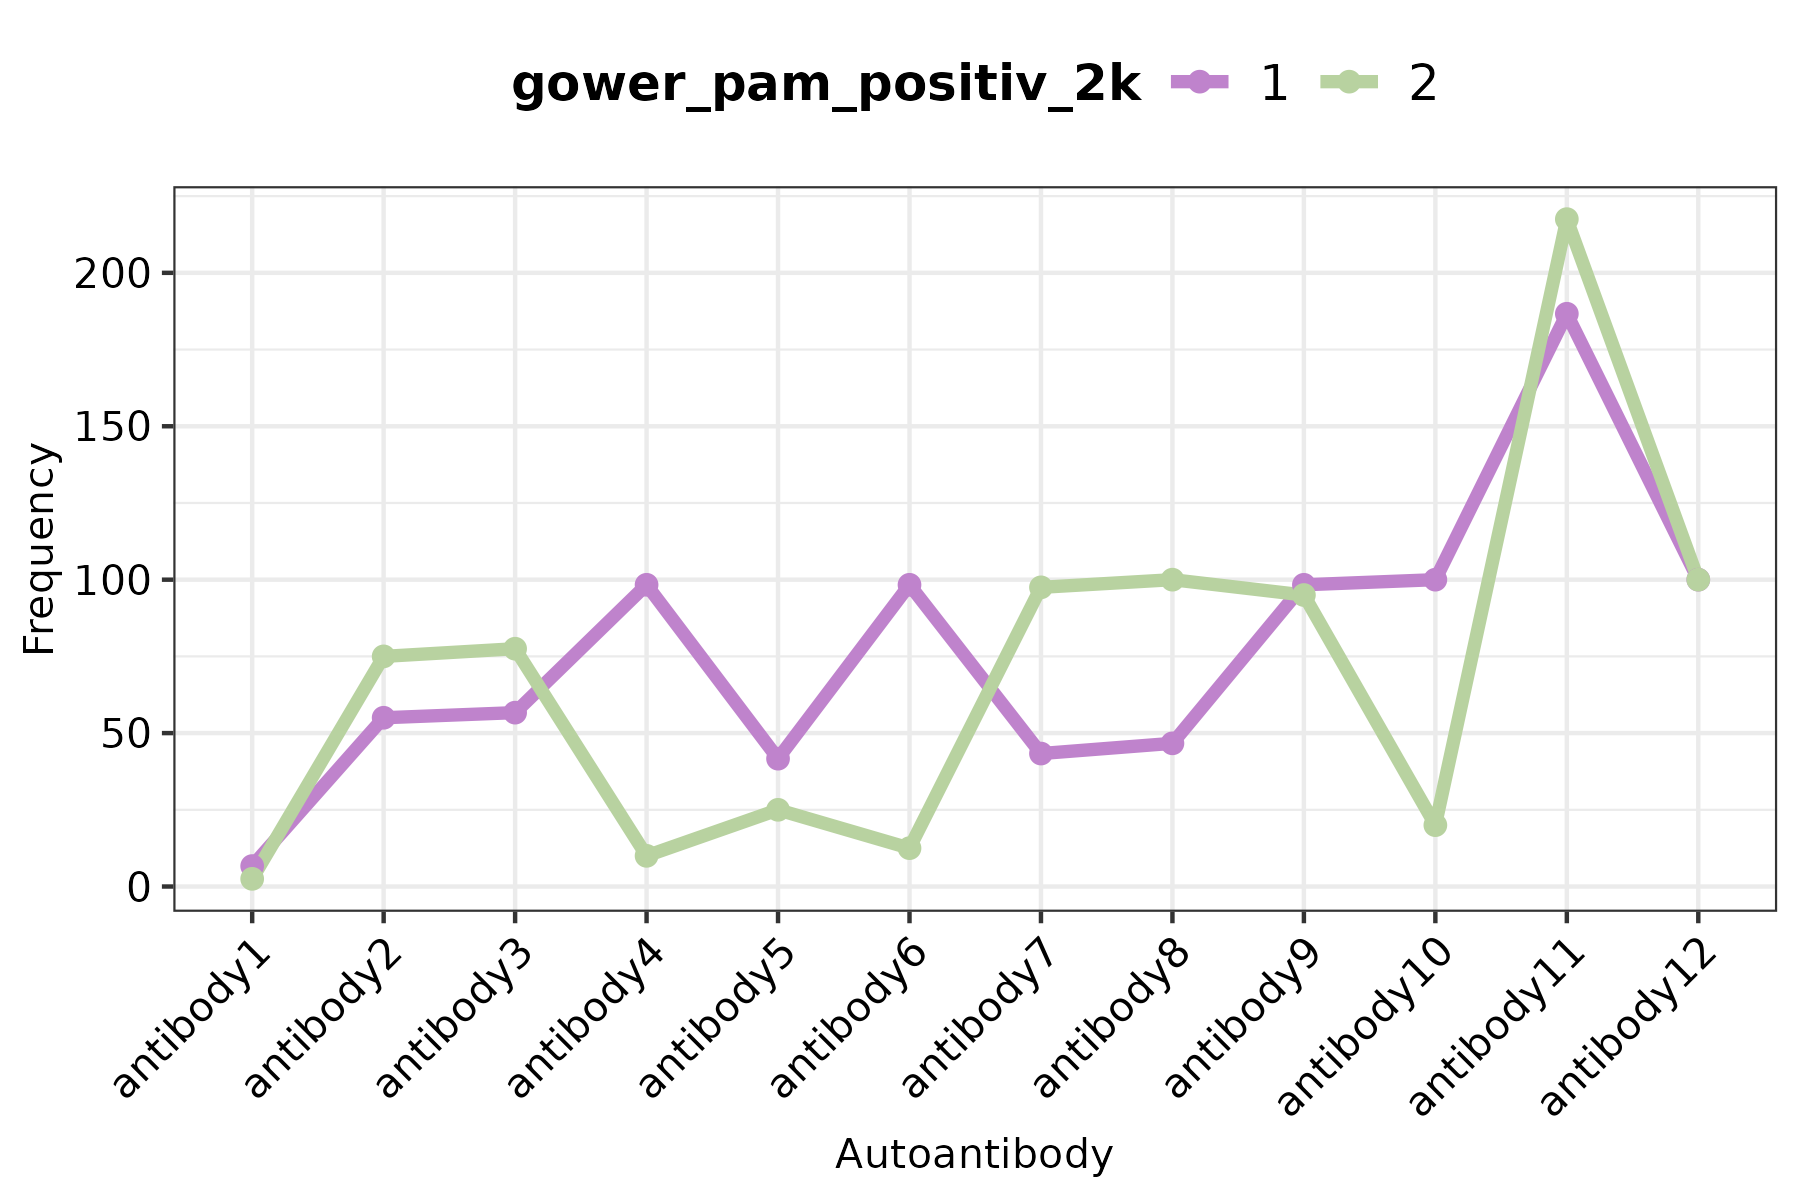
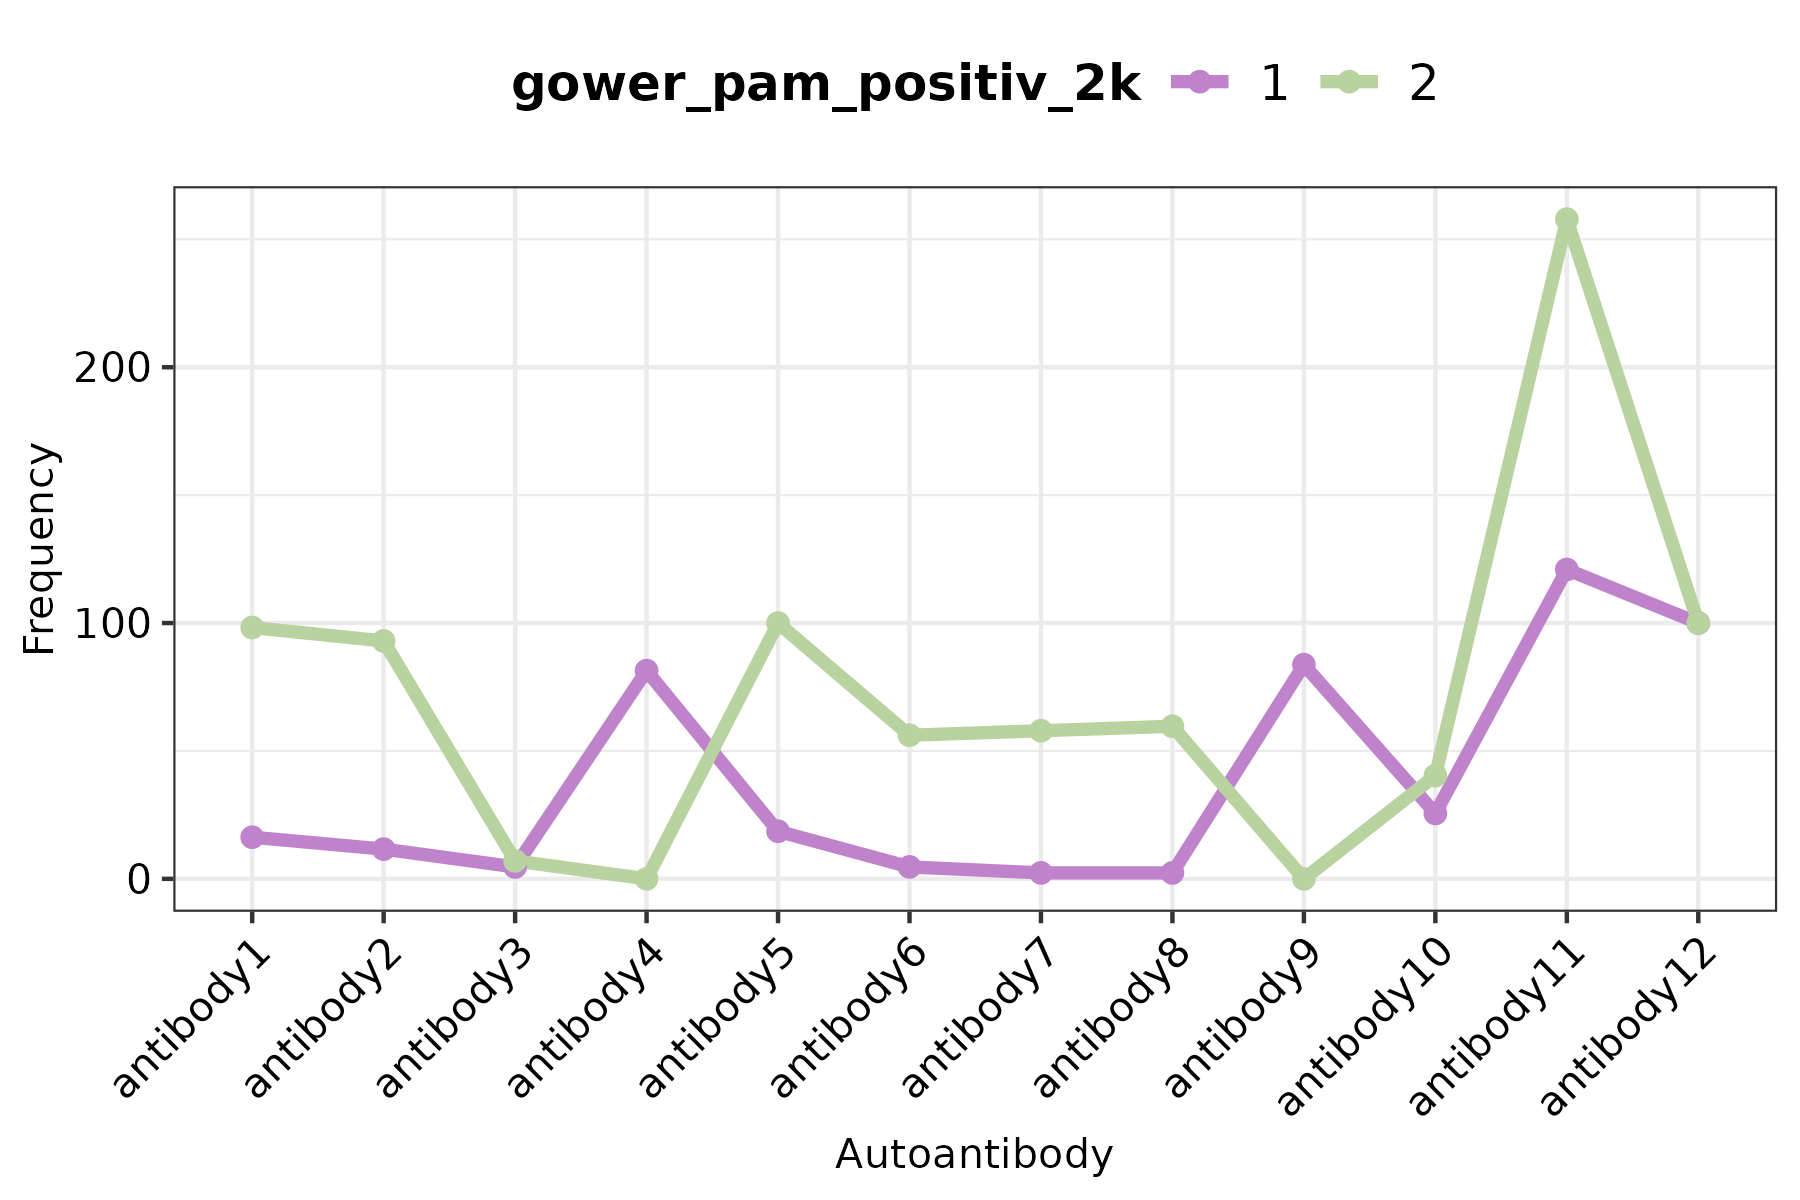
Deploying to gh-pages from @ Anacristina0914/autoclust@128dfe886e02a0fa58af0e39ac6e6d2481a5b75e 🚀

diff --git a/articles/autoclust.html b/articles/autoclust.html
@@ -84,19 +84,19 @@ data is located in your computer.</p>
 <span><span class="co"># Explore dataset</span></span>
 <span><span class="fu"><a href="https://rdrr.io/r/utils/head.html" class="external-link">head</a></span><span class="op">(</span><span class="va">clinical_data_df</span><span class="op">)</span></span></code></pre></div>
 <pre><code><span><span class="co">##         antibody1 antibody2 antibody3 antibody4 antibody5 antibody6 antibody7</span></span>
-<span><span class="co">## sample1         0         1         1         1         0         1         0</span></span>
-<span><span class="co">## sample2         0         1         1         1         0         1         0</span></span>
-<span><span class="co">## sample3         0         1         1         1         0         1         0</span></span>
-<span><span class="co">## sample4         0         1         1         1         0         1         0</span></span>
-<span><span class="co">## sample5         0         1         1         1         0         1         0</span></span>
-<span><span class="co">## sample6         0         1         1         1         0         1         0</span></span>
+<span><span class="co">## sample1         0         0         0         1         0         0         0</span></span>
+<span><span class="co">## sample2         0         0         0         1         0         0         0</span></span>
+<span><span class="co">## sample3         0         0         0         1         0         0         0</span></span>
+<span><span class="co">## sample4         0         0         0         1         0         0         0</span></span>
+<span><span class="co">## sample5         0         0         0         1         0         0         0</span></span>
+<span><span class="co">## sample6         0         0         0         1         0         0         0</span></span>
 <span><span class="co">##         antibody8 antibody9 antibody10 antibody11 antibody12</span></span>
-<span><span class="co">## sample1         0         1          1          1          1</span></span>
-<span><span class="co">## sample2         0         1          1          1          1</span></span>
-<span><span class="co">## sample3         0         1          1          1          1</span></span>
-<span><span class="co">## sample4         0         1          1          1          1</span></span>
-<span><span class="co">## sample5         0         1          1          1          1</span></span>
-<span><span class="co">## sample6         0         1          1          1          1</span></span></code></pre>
+<span><span class="co">## sample1         0         1          0          1          1</span></span>
+<span><span class="co">## sample2         0         1          0          1          1</span></span>
+<span><span class="co">## sample3         0         1          0          1          1</span></span>
+<span><span class="co">## sample4         0         1          0          1          1</span></span>
+<span><span class="co">## sample5         0         1          0          1          1</span></span>
+<span><span class="co">## sample6         0         1          0          1          1</span></span></code></pre>
 <div class="sourceCode" id="cb4"><pre class="downlit sourceCode r">
 <code class="sourceCode R"><span><span class="co"># Establish a directory where to save your results</span></span>
 <span><span class="va">output_data_dir</span> <span class="op">&lt;-</span> <span class="st">"."</span> <span class="co"># This will save the results in the current working directory. You can change it for whatever you want.</span></span></code></pre></div>

diff --git a/index.html b/index.html
@@ -48,7 +48,7 @@
   <main id="main" class="col-md-9"><div class="section level1">
 <div class="page-header"><h1 id="autoclust-">autoclust <img src="reference/figures/logo.png" align="right" width="120"><a class="anchor" aria-label="anchor" href="#autoclust-"></a>
 </h1></div>
-<p><a href="https://github.com/Anacristina0914/autoclust/actions/workflows/R-CMD-check.yml" class="external-link"><img src="https://github.com/Anacristina0914/autoclust/actions/workflows/R-CMD-check.yml/badge.svg" alt="R-CMD-check"></a> <a href="LICENSE"><img src="https://img.shields.io/badge/license-MIT-blue.svg" alt="License: MIT"></a> <a href="https://github.com/Anacristina0914/autoclust/releases" class="external-link"><img src="https://img.shields.io/github/v/release/Anacristina0914/autoclust" alt="GitHub release"></a></p>
+<p><a href="LICENSE"><img src="https://img.shields.io/badge/license-MIT-blue.svg" alt="License: MIT"></a> <a href="https://github.com/Anacristina0914/autoclust/releases" class="external-link"><img src="https://img.shields.io/github/v/release/Anacristina0914/autoclust" alt="GitHub release"></a><br><a href="https://doi.org/10.5281/zenodo.17569306" class="external-link"><img src="https://zenodo.org/badge/887137273.svg" alt="DOI"></a></p>
 <blockquote>
 <p>Automated clustering and association testing for patient stratification using antibody, proteomic, and clinical data.</p>
 </blockquote>

diff --git a/articles/autoclust.md b/articles/autoclust.md
@@ -32,19 +32,19 @@ head(clinical_data_df)
 ```
 
     ##         antibody1 antibody2 antibody3 antibody4 antibody5 antibody6 antibody7
-    ## sample1         0         1         1         1         0         1         0
-    ## sample2         0         1         1         1         0         1         0
-    ## sample3         0         1         1         1         0         1         0
-    ## sample4         0         1         1         1         0         1         0
-    ## sample5         0         1         1         1         0         1         0
-    ## sample6         0         1         1         1         0         1         0
+    ## sample1         0         0         0         1         0         0         0
+    ## sample2         0         0         0         1         0         0         0
+    ## sample3         0         0         0         1         0         0         0
+    ## sample4         0         0         0         1         0         0         0
+    ## sample5         0         0         0         1         0         0         0
+    ## sample6         0         0         0         1         0         0         0
     ##         antibody8 antibody9 antibody10 antibody11 antibody12
-    ## sample1         0         1          1          1          1
-    ## sample2         0         1          1          1          1
-    ## sample3         0         1          1          1          1
-    ## sample4         0         1          1          1          1
-    ## sample5         0         1          1          1          1
-    ## sample6         0         1          1          1          1
+    ## sample1         0         1          0          1          1
+    ## sample2         0         1          0          1          1
+    ## sample3         0         1          0          1          1
+    ## sample4         0         1          0          1          1
+    ## sample5         0         1          0          1          1
+    ## sample6         0         1          0          1          1
 
 ``` r
 # Establish a directory where to save your results

diff --git a/index.md b/index.md
@@ -1,10 +1,10 @@
 # autoclust ![](reference/figures/logo.png)
 
-[![R-CMD-check](https://github.com/Anacristina0914/autoclust/actions/workflows/R-CMD-check.yml/badge.svg)](https://github.com/Anacristina0914/autoclust/actions/workflows/R-CMD-check.yml)
 [![License:
 MIT](https://img.shields.io/badge/license-MIT-blue.svg)](LICENSE)
 [![GitHub
-release](https://img.shields.io/github/v/release/Anacristina0914/autoclust)](https://github.com/Anacristina0914/autoclust/releases)
+release](https://img.shields.io/github/v/release/Anacristina0914/autoclust)](https://github.com/Anacristina0914/autoclust/releases)  
+[![DOI](https://zenodo.org/badge/887137273.svg)](https://doi.org/10.5281/zenodo.17569306)
 
 > Automated clustering and association testing for patient
 > stratification using antibody, proteomic, and clinical data.
